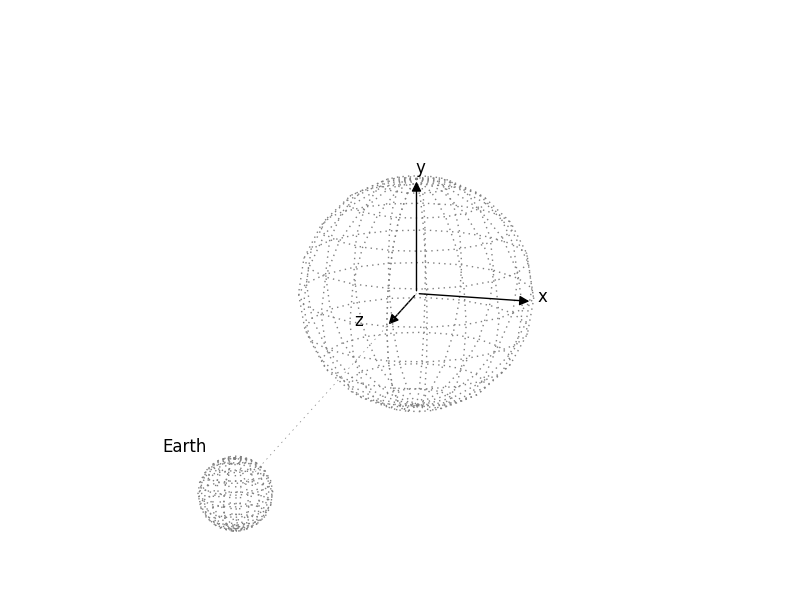
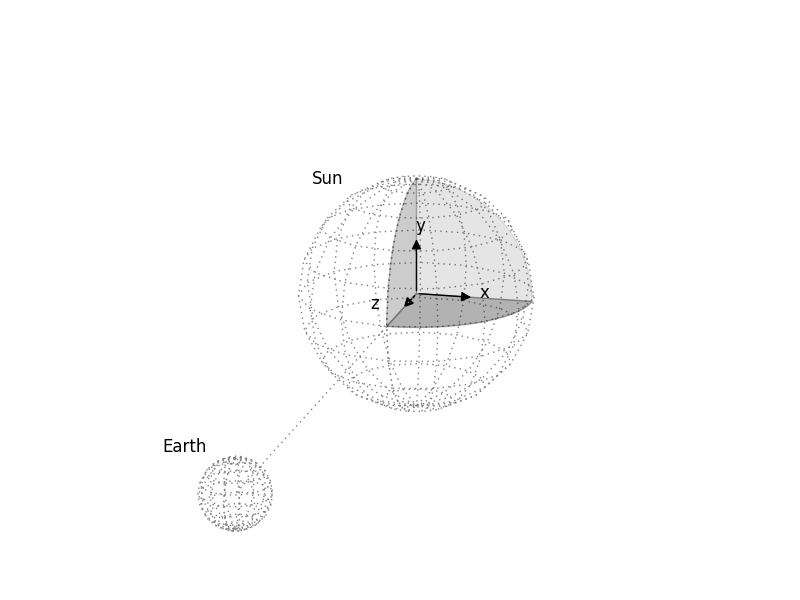
Update HCC plot (and include python sources)

Changed region(s): [[0.375, 0.27, 0.6875, 0.69], [0.25, 0.75, 0.3438, 0.9], [0.375, 0.27, 0.4375, 0.3]]

diff --git a/scripts/hcc.py b/scripts/hcc.py
@@ -1,0 +1,76 @@
+# -*- coding: utf-8 -*-
+
+import numpy as np
+import matplotlib.pyplot as plt
+import mpl_toolkits.mplot3d.art3d as art3d
+
+from mpl_toolkits.mplot3d import Axes3D
+from matplotlib.patches import Wedge, Circle, PathPatch, FancyArrowPatch
+from mpl_toolkits.mplot3d import proj3d
+
+fig = plt.figure()
+ax = fig.gca(projection='3d')
+ax.set_aspect("equal")
+
+# set axes scaling
+ax.set_xlim3d(-4, 4)
+ax.set_ylim3d(-4, 4)
+ax.set_zlim3d(-4, 4)
+
+# set 'camera' position
+ax.azim = 14
+ax.elev = 16
+ax.dist = 5.5
+
+plt.axis('off')
+
+#draw sphere
+def drawSphere(x=0,y=0,z=0,r=1):
+    u, v = np.mgrid[0:2*np.pi:16j, 0:np.pi:11j]
+    cx= x + np.cos(u)*np.sin(v) * r
+    cy= y + np.sin(u)*np.sin(v) * r
+    cz= z + np.cos(v) * r
+    return ax.plot_wireframe(cx, cy, cz, color="grey", linestyle='dotted' )
+
+drawSphere(r=2)
+
+# draw Wedges
+for c,i in enumerate(["x","y","z"]):
+    #circle = Circle((0, 0), 2, alpha=0.1)
+    circle = Wedge((0,0), 2, theta1=0.0, theta2=90.0, alpha=0.1*(c+1), facecolor='black')
+    ax.add_patch(circle)
+    art3d.pathpatch_2d_to_3d(circle, z=0, zdir=i)
+
+
+#earth
+drawSphere(10,0,0,0.5)
+
+
+class Arrow3D(FancyArrowPatch):
+    def __init__(self, xs, ys, zs, *args, **kwargs):
+        FancyArrowPatch.__init__(self, (0,0), (0,0), *args, **kwargs)
+        self._verts3d = xs, ys, zs
+    
+    def draw(self, renderer):
+        xs3d, ys3d, zs3d = self._verts3d
+        xs, ys, zs = proj3d.proj_transform(xs3d, ys3d, zs3d, renderer.M)
+        self.set_positions((xs[0],ys[0]),(xs[1],ys[1]))
+        FancyArrowPatch.draw(self, renderer)
+
+ax.plot([0,10],[0,0],[0,0], linewidth=1, color='grey', linestyle='dotted')
+x = Arrow3D([0,1],[0,0],[0,0], mutation_scale=20, lw=1, arrowstyle="-|>", color="k", label='x')
+y = Arrow3D([0,0],[0,0],[0,1], mutation_scale=20, lw=1, arrowstyle="-|>", color="k", label='y')
+z = Arrow3D([0,0],[0,1],[0,0], mutation_scale=20, lw=1, arrowstyle="-|>", color="k", label='z')
+
+ax.add_artist(x)
+ax.add_artist(y)
+ax.add_artist(z)
+
+# Labels
+ax.text(0, 1.1, 0, 'x')
+ax.text(0, 0, 1.1, 'y')
+ax.text(1.1, -0.5, 0, 'z')
+ax.text(10, -1, 0.5, 'Earth')
+ax.text(0, -1.8, 1.8, 'Sun')
+
+plt.show()
